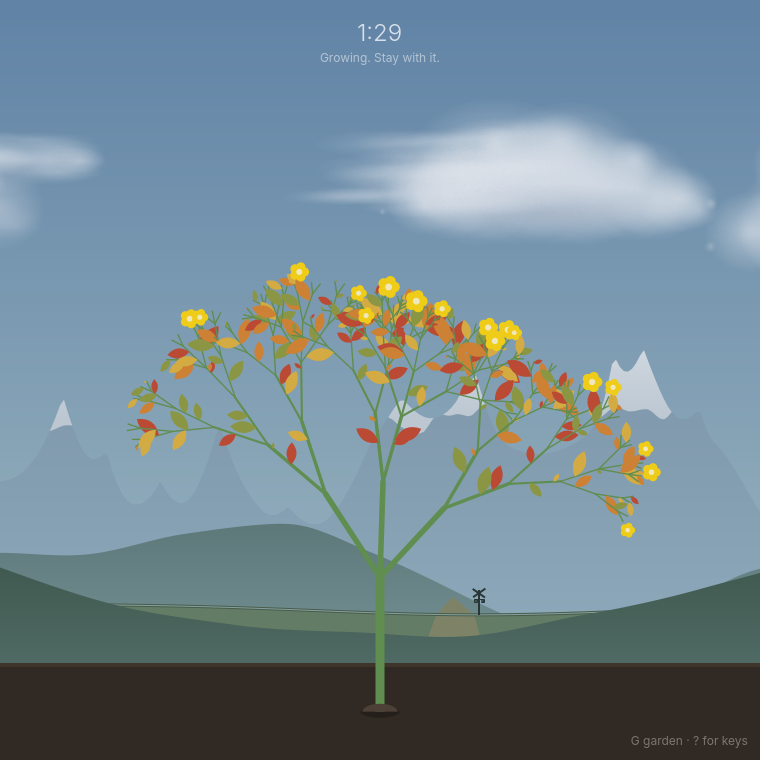
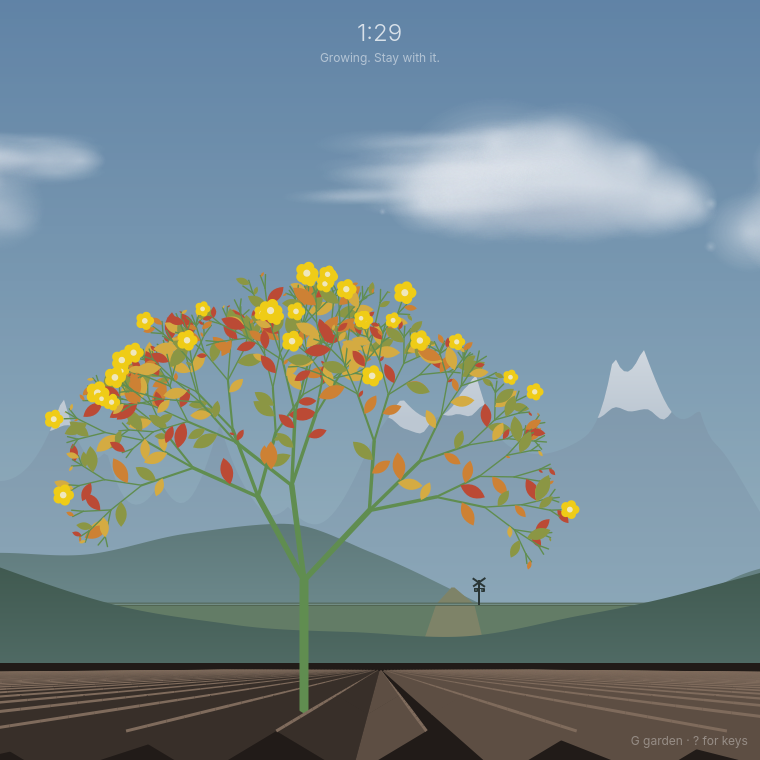
Level the track, and grow the plant in a ploughed field

Changed region(s): [[0.0, 0.3329, 1.0, 1.0], [0.3632, 0.9382, 0.3934, 0.9684]]

diff --git a/src/Field.qml b/src/Field.qml
@@ -1,0 +1,141 @@
+import QtQuick
+
+// The ploughed field in the foreground, seen in true perspective from low
+// down, about 30 cm above the ground, as if sitting at the edge of it.
+//
+// The rows run straight away from the viewer and meet at the horizon. They
+// are ploughed furrows 40 cm apart with ridges 12 cm high. The plant is a sapling about
+// 2.5 m tall, standing in the furrow between two rows, 4 m away. Every size
+// here follows from those numbers, so the rows, the plant and the trunk agree.
+Canvas {
+    id: field
+
+    // The horizon, as a fraction of the height, and where the field's far
+    // edge meets the meadow, in pixels from the top.
+    property real horizon: 0.88
+    property real groundTop: height * 0.874
+    // Where the rows meet on the horizon, and where the plant stands, as
+    // fractions of the width.
+    property real vanishX: 0.5
+    property real plantX: 0.4
+    // "far" draws the ground and the rows beyond the plant, "near" the rows in
+    // front of it, which are drawn over the plant: a ridge between the eye and
+    // the trunk hides the trunk's foot, as it would in a real field.
+    property string part: "far"
+    property color soilColor: "#2a2018"
+    // Snow lying on the field, from 0 to 1, and frost on the crests in winter.
+    property real snow: 0
+    property bool frost: false
+
+    // The camera. A metre at the plant's distance is this many pixels, which
+    // with the plant 4 m off fixes the focal length; the plant's foot sitting
+    // 6% of the height below the horizon then fixes the eye height.
+    readonly property real metreAtPlant: height * 0.21
+    readonly property real plantDepth: 4
+    readonly property real focal: metreAtPlant * plantDepth
+    readonly property real eye: height * 0.06 / metreAtPlant
+    // How far the plant stands to the side of straight ahead, in metres.
+    readonly property real plantLateral: (plantX - vanishX) * width / metreAtPlant
+    // Where the plant's foot is, in pixels from the top.
+    readonly property real plantBaseY: height * horizon + focal * eye / plantDepth
+
+    readonly property real rowSpacing: 0.4
+    readonly property real ridgeHeight: 0.12
+    readonly property real ridgeHalfWidth: 0.2
+
+    onSoilColorChanged: requestPaint()
+    onSnowChanged: requestPaint()
+    onFrostChanged: requestPaint()
+    onWidthChanged: requestPaint()
+    onHeightChanged: requestPaint()
+    onGroundTopChanged: requestPaint()
+    onPlantXChanged: requestPaint()
+    onPartChanged: requestPaint()
+
+    function mix(a, b, t) {
+        return Qt.rgba(a.r + (b.r - a.r) * t, a.g + (b.g - a.g) * t, a.b + (b.b - a.b) * t, 1)
+    }
+
+    // A point in the field, in metres (across, up, ahead), on the screen.
+    function project(across, up, ahead) {
+        return { x: width * vanishX + focal * across / ahead, y: height * horizon + focal * (eye - up) / ahead }
+    }
+
+    onPaint: {
+        var ctx = getContext("2d")
+        ctx.reset()
+        var W = width, H = height
+        if (W <= 0 || H <= 0)
+            return
+
+        var snowColor = Qt.rgba(0.9, 0.93, 0.96, 1)
+        var cover = Math.max(snow * 0.85, frost ? 0.25 : 0)
+        // The furrow floors are in shadow; the faces of the ridges that turn
+        // toward the light are brighter, and snow settles on those first.
+        var floorColor = mix(Qt.darker(soilColor, 1.5), snowColor, cover * 0.6)
+        var litFace = mix(Qt.lighter(soilColor, 1.9), snowColor, cover)
+        var shadeFace = mix(Qt.lighter(soilColor, 1.15), snowColor, cover * 0.75)
+        var crestColor = mix(Qt.lighter(soilColor, 2.6), snowColor, cover)
+
+        ctx.save()
+        ctx.beginPath()
+        ctx.rect(0, groundTop, W, H - groundTop)
+        ctx.clip()
+        if (part === "far") {
+            ctx.fillStyle = floorColor
+            ctx.fillRect(0, groundTop, W, H - groundTop)
+        }
+
+        // From just in front of the bottom of the window out to where the rows
+        // are too close together to see, split at the plant.
+        var nearest = focal * eye / (H - H * horizon) * 0.85
+        var from = part === "far" ? plantDepth : nearest
+        // The near rows run a hair past the plant so the two halves meet without a seam.
+        var to = part === "far" ? 80 : plantDepth * 1.01
+        var steps = part === "far" ? 22 : 10
+        var depths = []
+        for (var i = 0; i <= steps; i++)
+            depths.push(from * Math.pow(to / from, i / steps))
+
+        // Ridge crests sit half a row either side of the plant's furrow. Only the
+        // face of each ridge that turns toward us can be seen, so the outer rows
+        // are drawn first and the inner ones over them.
+        var ridges = []
+        for (var j = -48; j <= 48; j++) {
+            var crest = plantLateral + rowSpacing / 2 + j * rowSpacing
+            ridges.push(crest)
+        }
+        ridges.sort(function (a, b) { return Math.abs(b) - Math.abs(a) })
+
+        for (var r = 0; r < ridges.length; r++) {
+            var c = ridges[r]
+            // The face toward the middle of the view: a ridge to the right of
+            // straight ahead shows its left face, and the other way round.
+            var foot = c > 0 ? c - ridgeHalfWidth : c + ridgeHalfWidth
+            ctx.beginPath()
+            for (var k = 0; k < depths.length; k++) {
+                var p = project(foot, 0, depths[k])
+                k === 0 ? ctx.moveTo(p.x, p.y) : ctx.lineTo(p.x, p.y)
+            }
+            for (var q = depths.length - 1; q >= 0; q--) {
+                var t = project(c, ridgeHeight, depths[q])
+                ctx.lineTo(t.x, t.y)
+            }
+            ctx.closePath()
+            // The light comes from the left, so faces looking left are lit.
+            ctx.fillStyle = c > 0 ? litFace : shadeFace
+            ctx.fill()
+            // The crest catches the light; it thins with distance.
+            ctx.strokeStyle = crestColor
+            for (var e = 0; e < depths.length - 1; e++) {
+                var a = project(c, ridgeHeight, depths[e]), b = project(c, ridgeHeight, depths[e + 1])
+                ctx.beginPath()
+                ctx.moveTo(a.x, a.y)
+                ctx.lineTo(b.x, b.y)
+                ctx.lineWidth = Math.max(0.6, Math.min(3, focal * 0.012 / depths[e]))
+                ctx.stroke()
+            }
+        }
+        ctx.restore()
+    }
+}

diff --git a/src/GrowingPlant.qml b/src/GrowingPlant.qml
@@ -11,8 +11,8 @@ Canvas {
     property color flowerColor: "#FFD60A"
     // Where the trunk meets the ground, as a fraction of the height.
     property real base: 0.88
-    // The soil it is planted in; a small mound of it is heaped around the trunk.
-    property color soilColor: "transparent"
+    // Where the trunk is across the width, as a fraction of it.
+    property real rootX: 0.5
     // The light on the plant: a blue wash at night, a golden one at dawn and dusk.
     property color nightTint: "transparent"
     property color warmTint: "transparent"
@@ -27,10 +27,11 @@ Canvas {
     property int builtSeed: -1
     property real builtHeight: 0
     property real builtBase: 0
+    property real builtRootX: 0
 
     onProgressChanged: requestPaint()
     onBaseChanged: requestPaint()
-    onSoilColorChanged: requestPaint()
+    onRootXChanged: requestPaint()
     onWiltedChanged: requestPaint()
     onFlowerColorChanged: requestPaint()
     onNightTintChanged: requestPaint()
@@ -106,12 +107,13 @@ Canvas {
             }
         }
 
-        grow(width / 2, height * base, -Math.PI / 2, unit * 0.2, 0, 0)
+        grow(width * rootX, height * base, -Math.PI / 2, unit * 0.2, 0, 0)
         segments = segs
         tips = ends
         builtSeed = seed
         builtHeight = height
         builtBase = base
+        builtRootX = rootX
     }
 
     function drawLeaf(ctx, x, y, angle, size, color) {
@@ -146,7 +148,8 @@ Canvas {
         ctx.reset()
         if (width <= 0 || height <= 0)
             return
-        if (seed !== builtSeed || Math.abs(height - builtHeight) > 0.5 || Math.abs(base - builtBase) > 0.0005)
+        if (seed !== builtSeed || Math.abs(height - builtHeight) > 0.5 || Math.abs(base - builtBase) > 0.0005
+                || Math.abs(rootX - builtRootX) > 0.0005)
             build()
 
         // A wilted plant keeps the shape it reached but loses its colour.
@@ -155,37 +158,8 @@ Canvas {
         var leafScale = wilted ? 0.6 : 1
         ctx.lineCap = "round"
 
-        // A small heap of earth where the seed went in; the trunk rises out of it.
-        function mound() {
-            if (soilColor.a <= 0)
-                return
-            // Wide enough to bury the round foot of the trunk.
-            var r = Math.max(5, height * 0.026)
-            ctx.save()
-            ctx.translate(width / 2, height * base)
-            // The planting hollow, a shade darker than the soil around it.
-            ctx.save()
-            ctx.scale(1, 0.32)
-            ctx.beginPath()
-            ctx.arc(0, 0, r * 1.15, 0, Math.PI)
-            ctx.closePath()
-            ctx.fillStyle = Qt.darker(soilColor, 1.35)
-            ctx.fill()
-            ctx.restore()
-            // The heap of loose earth over it.
-            ctx.scale(1, 0.45)
-            ctx.beginPath()
-            ctx.arc(0, 0.5, r, Math.PI, 0)
-            ctx.closePath()
-            ctx.fillStyle = Qt.lighter(soilColor, 1.55)
-            ctx.fill()
-            ctx.restore()
-        }
-
-        if (progress <= 0) {
-            mound()
+        if (progress <= 0)
             return
-        }
 
         for (var i = 0; i < segments.length; i++) {
             var s = segments[i]
@@ -223,8 +197,6 @@ Canvas {
                 drawLeaf(ctx, lx, ly, heading + l.side * tilt, height * 0.035 * l.size * grown * leafScale, wilted ? wiltedLeaf : lit(leafColor(l.tone)))
             }
         }
-
-        mound()
 
         if (!wilted) {
             var bloom = clamp((progress - 0.9) / 0.1)

diff --git a/src/Main.qml b/src/Main.qml
@@ -91,22 +91,26 @@ ApplicationWindow {
             anchors.bottom: parent.bottom
             height: parent.height * 0.12 + 6
             color: Qt.tint(Qt.tint(Qt.tint("#2a2018", win.weatherTint), light.nightTint), light.warmTint)
-            Rectangle {
-                anchors.left: parent.left
-                anchors.right: parent.right
-                anchors.top: parent.top
-                height: 4 + 16 * weather.snow
-                color: weather.season === "winter" || weather.snow > 0.05 ? Qt.tint(Qt.tint("#cfdde0", light.nightTint), light.warmTint) : Qt.tint(Qt.tint(Qt.tint("#3a2d20", win.weatherTint), light.nightTint), light.warmTint)
-            }
+        }
+
+        // The ploughed field the plant grows in.
+        Field {
+            id: field
+            anchors.fill: parent
+            groundTop: ground.y
+            part: "far"
+            soilColor: ground.color
+            snow: weather.snow
+            frost: weather.season === "winter"
         }
 
         GrowingPlant {
             id: plant
             anchors.fill: parent
             anchors.topMargin: 90
-            // The trunk goes into the soil halfway down the band of earth.
-            base: (ground.y + ground.height / 2 - y) / height
-            soilColor: ground.color
+            // The trunk stands in the furrow the field puts it in.
+            base: (field.plantBaseY - y) / height
+            rootX: field.plantX
             progress: weather.growth
             seed: backend.seed
             wilted: backend.state === "wilted"
@@ -115,6 +119,16 @@ ApplicationWindow {
             warmTint: light.warmTint
             weatherTint: win.weatherTint
             season: weather.season
+        }
+
+        // The rows nearer than the plant, over its foot.
+        Field {
+            anchors.fill: parent
+            part: "near"
+            groundTop: ground.y
+            soilColor: ground.color
+            snow: weather.snow
+            frost: weather.season === "winter"
         }
 
         Precipitation {

diff --git a/src/Train.qml b/src/Train.qml
@@ -74,14 +74,11 @@ Item {
         running = true
     }
 
-    // The track bends a little toward the viewer at the crossing, so things
-    // there are slightly larger than they are farther along.
-    function nearness(x) {
-        var d = (x - crossingX) / 0.3
-        return Math.exp(-d * d)
-    }
-    function sizeAt(x) { return 0.88 + 0.12 * nearness(x) }
-    function trackY(x) { return height * (horizon - 0.085) + height * 0.014 * nearness(x) }
+    // The track is straight and level across the valley, and everything on it
+    // is at one distance and so one scale: a train is rigid, and every wheel
+    // sits on the rail.
+    function sizeAt(x) { return 1 }
+    function trackY(x) { return height * (horizon - 0.085) }
 
     // Where each vehicle's front end is, in pixels, laid end to end from the
     // front of the train.

diff --git a/src/GardenView.qml b/src/GardenView.qml
@@ -103,7 +103,6 @@ Rectangle {
                         anchors.bottom: caption.top
                         // The trunk goes into the middle of the strip of soil.
                         base: (height - soil.height / 2) / height
-                        soilColor: soil.color
                         progress: model.progress
                         seed: model.seed
                         wilted: model.outcome === "wilted"

diff --git a/src/main.cpp b/src/main.cpp
@@ -22,7 +22,7 @@
 int main(int argc, char *argv[]) {
     QGuiApplication app(argc, argv);
     app.setApplicationName("grove");
-    app.setApplicationVersion("0.4.6");
+    app.setApplicationVersion("0.5.0");
 
     // Matches the window to grove.desktop, so the compositor (Wayland app_id)
     // and the launcher pick up the installed icon.

diff --git a/README.md b/README.md
@@ -2,7 +2,8 @@
 
 ![Grove growing an autumn plant under soft clouds](docs/grove.png)
 
-A focus timer that grows a plant while you work. Press Space to plant a seed.
+A focus timer that grows a plant while you work. Press Space to plant a seed
+in a furrow of the ploughed field.
 Stay with it for 25 minutes and the plant blooms; give up and it wilts. Either
 way it stays in your garden.
 
